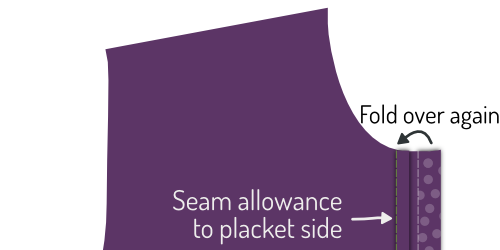
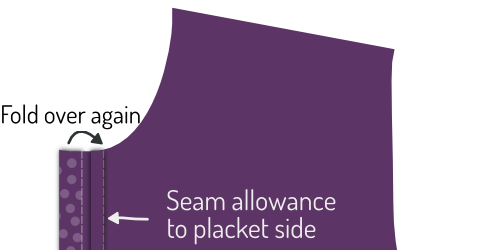
fix(markdown): Flip images from Simon documentation. Fixes #6472

Changed region(s): [[0.0, 0.028, 1.0, 1.0], [0.33, 0.868, 0.69, 0.98], [0.33, 0.756, 0.69, 0.84]]

diff --git a/markdown/org/docs/designs/simon/instructions/en.md b/markdown/org/docs/designs/simon/instructions/en.md
@@ -256,6 +256,8 @@ From the good side of your shirt, sew down the folded placket by stitching in th
 
 To do so, sew exactly on top of your earlier seam. Since you folded the fabric of your placket a bit past this seam, it will get caught at the back, fixing your folded placket in place, and locking the seam allowance inside.
 
+![Stitch in the ditch](9e.png)
+
 ### Step 10: Prepare the buttonhole placket
 
 > If you have chosen a grown-on placket, you can skip the first two sub-steps and skip ahead to Understanding a classic buttonhole placket.
